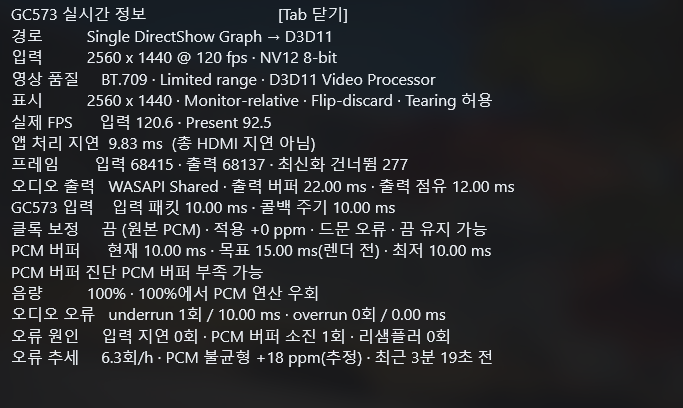
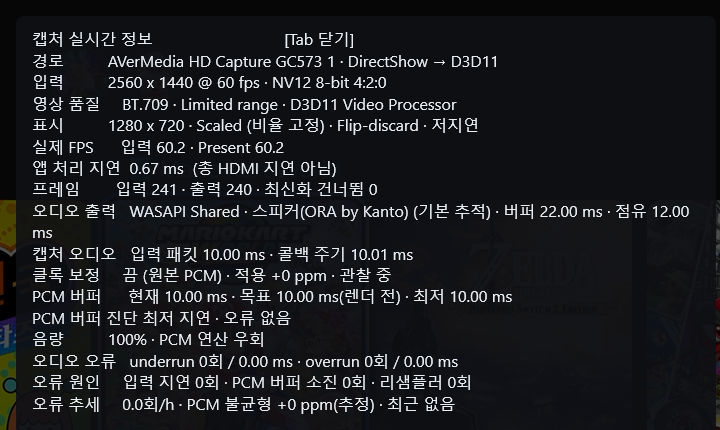
Update README for v1.1.0 behavior

diff --git a/README.md b/README.md
@@ -83,15 +83,42 @@ initialization fails, the viewer returns to settings after showing the error.
 | Output device | Follow the Windows default device unless a fixed device is required. |
 | Clock drift correction | Off for unaltered PCM. Enable only when long-running playback shows repeated drift-related errors. |
 | PCM target | 10 ms for minimum latency; raise it only if underruns repeat. |
-| Video format | Auto/NV12 first for the lowest upload overhead; select 60 fps when 120 fps is not sustainable. |
+| Video format | Auto/NV12 first; match capture FPS to the source's actual output rate. |
+| Pixel-perfect | Enable for exact 1:1 display; disable for freely resizable windows. |
 | Scaling mode | Smooth by default. Try Sharp when a non-pixel-perfect fullscreen image looks soft. |
+
+### Video mode selection
 
 Changing the capture device or resolution refreshes the supported format and
 frame-rate list. A fresh configuration starts at 1920 x 1080 (FHD). The chosen
 capture resolution is remembered and is never changed automatically when the
-settings or viewer window moves to another monitor. The settings window shows
-the detected combinations, and disables Start when the selected device has no
-supported uncompressed mode.
+settings or viewer window moves to another monitor. Only modes advertised by
+the device are shown, and Start is disabled only when no supported mode exists.
+
+Auto pixel format prefers uncompressed NV12, followed by YUY2. When NV12 or
+YUY2 reaches at least 30 fps at the selected resolution, MJPEG is hidden so the
+tested raw path remains the clear default. **MJPEG (experimental compressed
+compatibility)** appears for explicit selection when raw formats are absent or
+all stay below 30 fps. H.264/AVC and MPEG-4 are not supported because
+inter-frame references and decoder reordering cannot provide reliably low
+latency.
+
+30 fps appears when the device advertises an exact 30/29.97 media type or
+includes 30 fps in its supported frame-interval range. Selecting it configures
+the capture pin itself at 30 fps rather than receiving a faster stream and
+dropping frames. This adds no application queue, but each frame spans 33.3 ms;
+when the same source is stable at 60 or 120 fps, those modes provide lower video
+latency and smoother motion.
+
+For this viewer, **NV12 is the preferred low-latency format**. Its 12-bit-per-
+pixel layout transfers 25% less frame data than 16-bit-per-pixel YUY2 during the
+remaining system-memory-to-D3D11 upload, so it generally has lower bandwidth
+and processing overhead. Both formats otherwise use the same latest-frame-only
+D3D11 Video Processor path. The exact difference still depends on the capture
+device and driver; choose YUY2 when its 4:2:2 chroma detail is more important or
+when a particular device handles it better.
+
+### Capture audio selection
 
 `Capture audio device` uses an audio pin on the selected video device first.
 For USB capture devices that expose audio separately, it then looks for a
@@ -99,25 +126,48 @@ matching DirectShow audio-input device by name. If automatic matching is not
 enough, select that USB audio input manually. Diagnostic logs record the failed
 initialization stage and enumerate the filter pins/media types for diagnosis.
 
-For this viewer, **NV12 is the preferred low-latency format**. Its 12-bit-per-
-pixel layout transfers 25% less frame data than 16-bit-per-pixel YUY2 during the
-remaining system-memory-to-D3D11 upload, so it generally has lower bandwidth and
-processing overhead. Both formats otherwise use the same latest-frame-only
-D3D11 Video Processor path. The exact latency difference still depends on the
-capture device and driver; choose YUY2 when its 4:2:2 chroma detail is more
-important or when a particular device handles it better.
+When video and audio arrive from separate device filters, their hardware clocks
+can differ slightly and move the PCM queue over long sessions. Enable clock-
+drift correction only when audio repeatedly breaks up or the Tab overlay shows
+a persistent and growing imbalance.
+
+### Window, fullscreen, and scaling
 
 `Pixel-perfect` fixes the client area to the selected capture resolution and
 disables manual resizing. With it off, the window can be resized while keeping
-the video aspect ratio. Monitor-relative sizing is independent: when enabled,
-the saved monitor-relative scale is also applied on the next launch, so a QHD
-window moved to an FHD display does not reopen at the full QHD size there.
+the video aspect ratio. When capture and monitor resolutions match, the viewer
+starts in borderless fullscreen regardless of the Pixel-perfect setting.
+
+Pixel-perfect fullscreen uses the largest integer scale that fits and clears
+unused space to black. For example, QHD input stays at 1x and is centered on a
+4K display, while FHD input scales by exactly 2x to fill it. If the capture is
+larger than the monitor, the complete picture is downscaled with its aspect
+ratio preserved instead of being cropped.
+
+`F5` restores an exact 1:1 client size on the current monitor without changing
+the saved Pixel-perfect option. A matching capture/monitor resolution uses
+fullscreen; if a 1:1 window cannot fit the monitor work area, the HUD reports
+that it is unavailable. `F11` toggles borderless fullscreen independently of
+the current window size.
+
+`Keep relative window size when moving monitors` is independent of Pixel-
+perfect. It preserves a similar screen-coverage ratio across displays with
+different resolutions or DPI and restores that ratio on the next launch. A
+genuinely smaller saved relative window takes priority over automatic
+fullscreen, so a QHD window moved from 4K to FHD does not reopen as fullscreen.
+Using this option with Pixel-perfect may break 1:1 after a monitor move; press
+F5 whenever exact mapping is needed again.
 
 `Scaling mode` affects non-1:1 video only. **Smooth** is the standard filtered
 scale. **Sharp** enables the GPU video processor's edge-enhancement filter,
 when the display driver supports it, without adding a frame queue. It can make
 text and UI clearer when the image is enlarged; it cannot make a non-integer
 scale mathematically pixel-perfect. If unsupported, Sharp safely uses Smooth.
+
+`Hide title bar` removes the caption and border in windowed mode. Edge snap
+works at both outer monitor edges and shared boundaries between monitors. Its
+entry and release distance is 20 DIP after DPI scaling; hold Shift while
+dragging to bypass snap temporarily.
 
 Before starting, close other programs that may already be using the capture
 device, such as OBS Studio or a vendor utility (for example Elgato 4K Capture
@@ -138,6 +188,23 @@ If `IAudioClient3` is unavailable for the endpoint or PCM format, the viewer
 automatically falls back to classic WASAPI Shared mode. Exclusive mode remains
 a separate direct-endpoint option; it is not an `IAudioClient3` requirement.
 
+With **Follow the Windows default output device**, changing the default endpoint
+while the viewer is running reopens only WASAPI output and leaves video capture
+running. Pending PCM is cleared after the switch so endpoint initialization time
+does not become accumulated playback latency; a short silence or small click can
+still occur during the transition.
+
+`WASAPI output buffer` requests the endpoint period/buffer, while `PCM buffer
+target` is the application's capture-to-render safety depth. Both are adjusted
+independently from clock-drift correction. The 10 ms PCM target is the minimum-
+latency choice; raise it to 15, 20, or 30 ms only when underruns repeat.
+
+The mouse wheel changes volume in 5% steps. At 100%, PCM volume processing is
+bypassed. Enabling **Allow volume boost above 100%** permits up to 200% digital
+gain without adding an audio buffer, but loud signals may clip. Background auto-
+mute changes only the output gain while capture and WASAPI consumption continue,
+so returning to the viewer does not expose an accumulated PCM delay.
+
 ## Controls
 
 | Control | Action |
@@ -155,8 +222,9 @@ a separate direct-endpoint option; it is not an `IAudioClient3` requirement.
 
 The Tab overlay shows input and Present FPS, app processing time, discarded
 frames, selected format, WASAPI buffer state, PCM queue depth, drift correction,
-and underrun/overrun counts. Statistics begin after a two-second warm-up; capture
-and playback begin immediately.
+and underrun/overrun counts. Video statistics exclude the first two seconds and
+audio error diagnostics exclude the first five seconds. Capture and playback
+themselves begin immediately.
 
 ![Tab diagnostics overlay](docs/images/tab-diagnostics.png)
 
@@ -181,10 +249,10 @@ samples is more important than long-run clock correction.
 ### Viewer vs. OBS
 
 OBS Studio is a general-purpose production tool for scenes, recording, streaming,
-filters, plugins, and encoding. This viewer is a dedicated preview path: it does
-not compose scenes, encode, record, or require FFmpeg/mpv. That smaller path is
-useful when preview latency and predictable behavior matter, but it is not an
-OBS benchmark or replacement. Use OBS when production features are required.
+filters, plugins, and encoding. This application is a dedicated replacement for
+using the OBS preview only to watch and hear a capture device. It omits scene
+composition, recording, streaming, encoding, and FFmpeg/mpv to keep the preview
+path focused. Use OBS when those production features are required.
 
 ### WASAPI Exclusive and system DSP
 
@@ -214,11 +282,13 @@ Choose a capture rate at or below the source's actual maximum rate. This source
 limit takes priority over the monitor refresh rate: a 120 fps source has no
 additional visual information at 144 fps, and a capture card may only repeat or
 re-time frames in that mode. A 144 Hz display therefore does not require 144 fps
-capture. Use 120 fps for a 120 fps source and 60 fps for a 60 fps source. If the
-source offers several rates, choose the one that also fits the target display
-cadence when possible (for example, 120 fps with 120/240 Hz). For VSync, a
-120 Hz or 240 Hz display can provide more even pacing for 120 fps video than a
-144 Hz display.
+capture. Use 120 fps for a 120 fps source, 60 fps for a 60 fps source, and 30 fps
+for a 30 fps source. Although 30 fps reduces throughput, its 33.3 ms frame
+interval reduces motion smoothness and responsiveness when a 60/120 fps source
+is intentionally lowered to it. If the source offers several rates, choose the
+one that also fits the target display cadence when possible (for example,
+120 fps with 120/240 Hz). For VSync, a 120 Hz or 240 Hz display can provide more
+even pacing for 120 fps video than a 144 Hz display.
 
 ### Overhead and input-latency expectations
 
